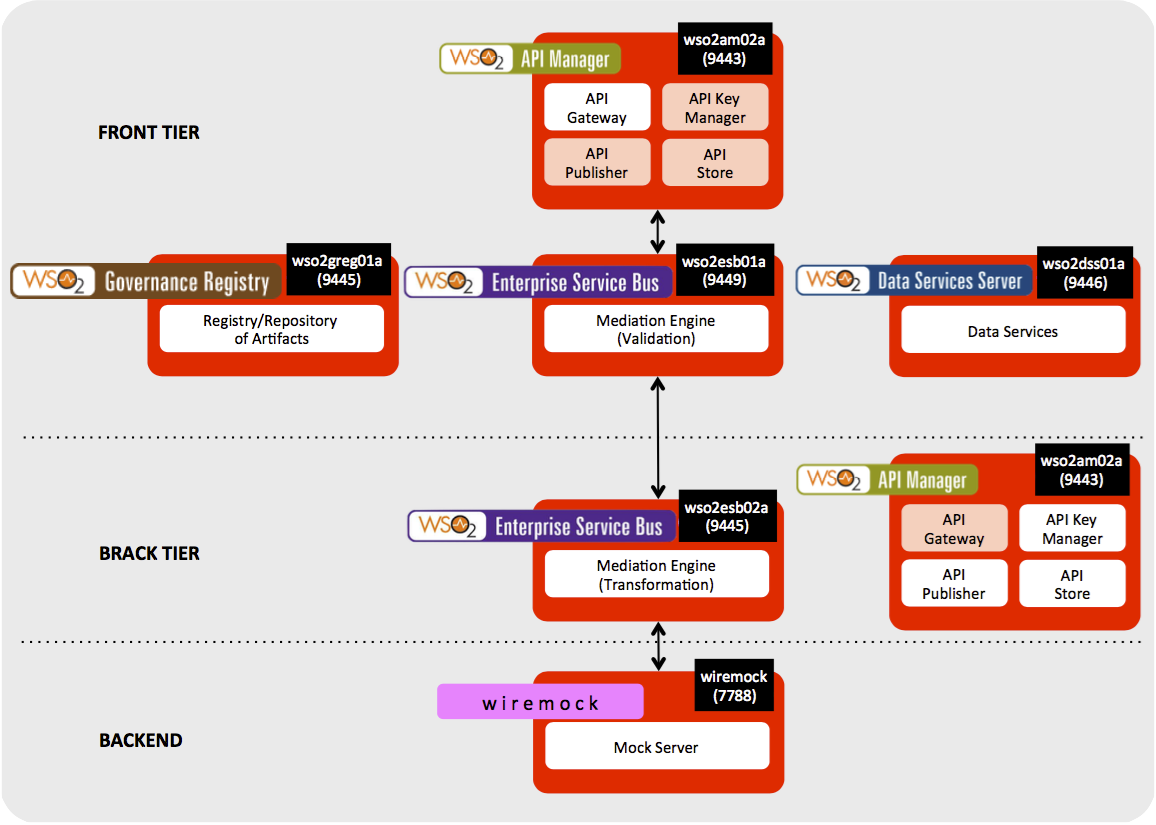
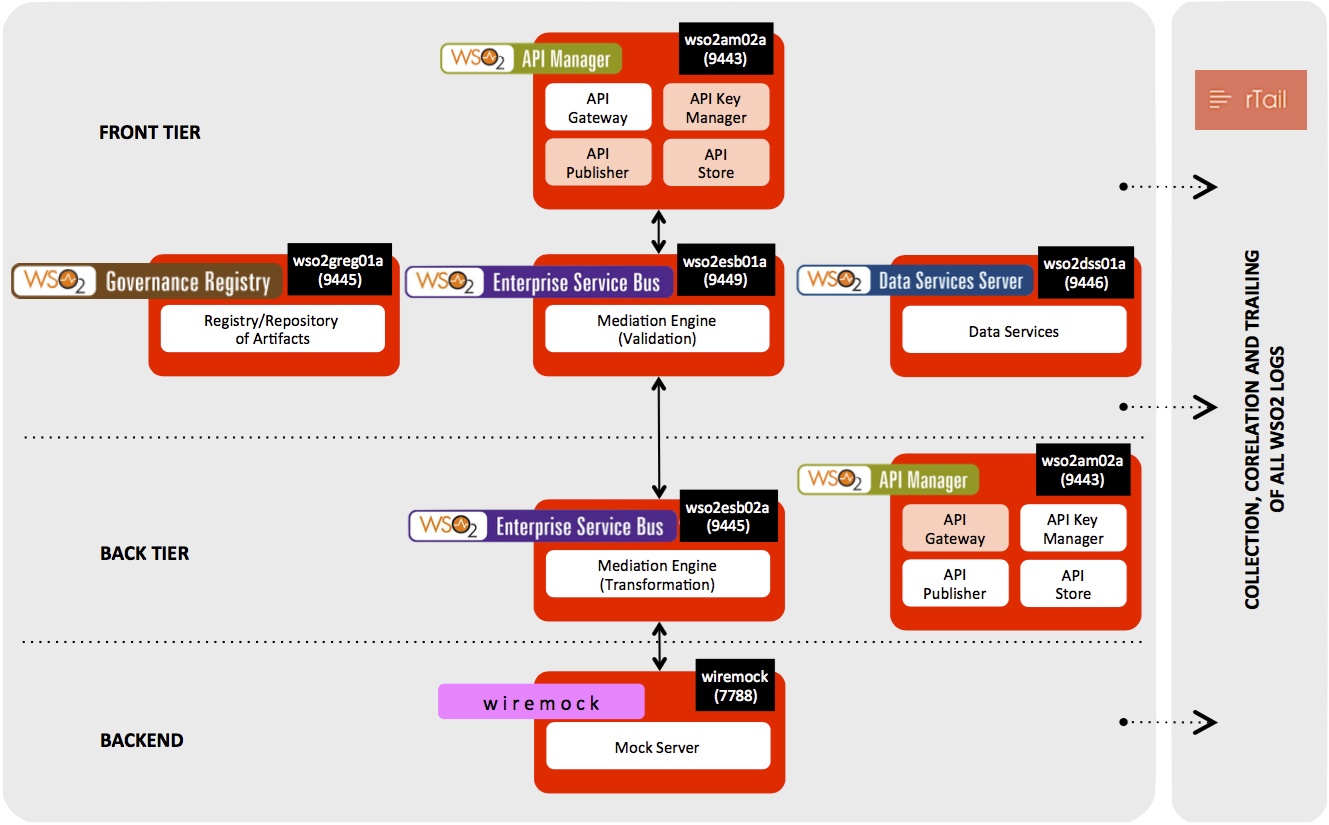
rTail screenshot collecting and trailing WSO2 logs added.

diff --git a/README.md b/README.md
@@ -196,6 +196,11 @@ Where `%WSO2_SERVER_NAME% could be:
 
 Now, if you reboot the VM, the %WSO2_SERVER_NAME% will start too.
 
+## Updates
+
+- 2015.11.13: Added the rTail puppet module to collect, correlate, track and visualize all WSO2 logs using a browser.
+
+<img src="https://github.com/Chilcano/box-vagrant-wso2-dev-srv/blob/master/_downloads/chilcano-box-vagrant-wso2-dev-srv-rtail-logs.png" width="100" alt="rTail to collect and visualize all WSO2 logs from a Browser"/>
 
 ## TODO
 
